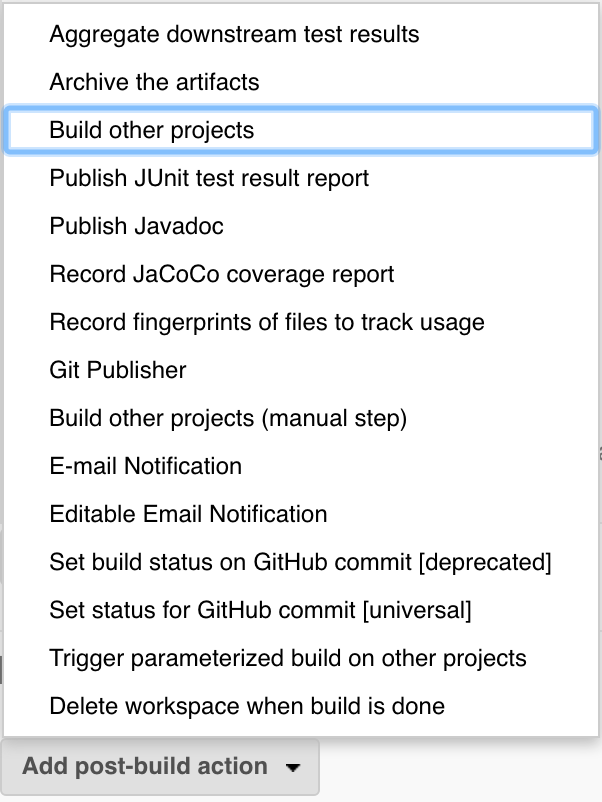
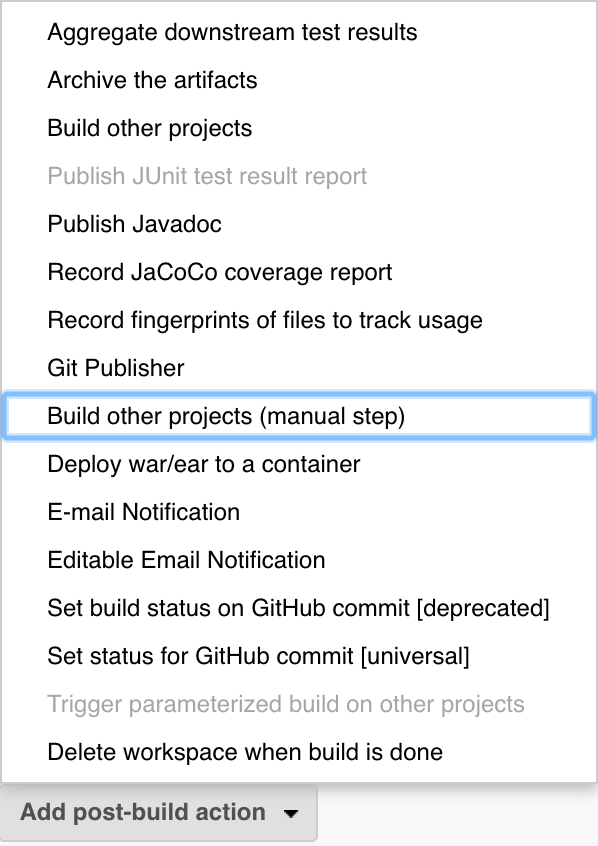
[B002] - update jenkins by step post

Changed region(s): [[0.0, 0.0, 1.0, 0.9975]]

diff --git a/source/_posts/2016-07-06-jenkins-by-step.md b/source/_posts/2016-07-06-jenkins-by-step.md
@@ -124,77 +124,75 @@ Jenkins Job是很重要的概念，定义了在什么样的情况下执行什么
 ![](/assets/jenkins-by-step/job_source_code.png)
 
 #### Build Triggers 构建触发器
-构建触发条件Jenkins提供了5种方式，根据项目需要可以设置不同的触发方式，通常采用`Poll SCM`方式，通过设置Schedule来控制触发条件，Schedule采用的是基于**Cron**语法，但Jenkins对其进行了略微调整，比如设置`H/5 * * * *`表示每5分钟检查一次代码仓库是否有新的code changes，如果有就pull并执行tasks。可以通过点击问号![](/assets/jenkins-by-step/help.png)按钮来获得更多帮助信息，或参考[Cron Wiki](https://en.wikipedia.org/wiki/Cron)和[Quartz 2.x Docs](http://www.quartz-scheduler.org/documentation/quartz-2.x/tutorials/crontrigger.html)。
+构建触发条件Jenkins提供了多种方式，根据项目需要可以设置不同的触发方式，通常采用`Poll SCM`方式，通过设置Schedule来控制触发条件，Schedule采用的是基于**Cron**语法，但Jenkins对其进行了略微调整，比如设置`H/5 * * * *`表示每5分钟检查一次代码仓库是否有新的code changes，如果有就pull并执行tasks。可以通过点击问号![](/assets/jenkins-by-step/help.png)按钮来获得更多帮助信息，或参考[Cron Wiki](https://en.wikipedia.org/wiki/Cron)和[CronTrigger Tutorial](http://www.quartz-scheduler.org/documentation/quartz-2.x/tutorials/crontrigger.html)。
 ![](/assets/jenkins-by-step/job_trigger.png)
 
 #### Build 构建和任务
-假设项目构建工具采用的是目前相对比较流行的开源自动化构建工具[Gradle](https://gradle.org/)，选择`Use Gradle Wrapper`，添加项目执行的Tasks即可。需要注意的是，如果build依赖特定版本的运行环境，请确保在build机器上安装了对应版本的运行环境，如Java 8等。
+假设项目构建工具采用的是目前相对比较流行的开源自动化构建工具[Gradle](https://gradle.org/)，选择`Use Gradle Wrapper`，添加项目执行的Tasks即可，图中示例最终将执行`gradlew clean build`操作。需要注意的是，如果build依赖特定版本的运行环境，请确保在build机器上安装了对应版本的运行环境，如Java 8等。
 ![](/assets/jenkins-by-step/job_build.png)
 
 当然，除了Gradle外还可以选择Maven、Ant等方式。当然，如果有一些复杂的自动化工作也可以选择Shell脚本完成，根据项目需要定义。
 ![](/assets/jenkins-by-step/add_build_step.png)
 
 #### Post-build Actions 构建后置行为
-Post-build Actions定义了在完成当前Job的所有Tasks后接下来需要执行的一系列操作的关系。比如设置在正常完成当前Job后，进一步获取测试报告和Artifacts，发送Email通知，或者并行/串行地触发后续的一个或多个Jobs。执行顺序的关系可以被配置在Pipeline View中以可视化的方式展现出来。
-![](/assets/jenkins-by-step/job_post_action.png)
-
-Post-build actions有很多种类型和触发条件，通过下拉列表可以选择，如下图：
+Post-build Actions定义了在完成当前Job的Build任务后接下来需要执行的一系列操作的关系。比如设置在正常完成Build后，进一步获取测试报告和Artifacts，发送Email通知，或并行/串行地触发后续Downstream的一个或多个Jobs，以及部署应用到服务器等。Post-build actions有很多种类型和触发条件，通过下拉列表可以选择，如下图：
 ![](/assets/jenkins-by-step/add_post_action.png)
 
-其中`Build other projects`表示将自动触发后续Job，`Build other projects(manual step)`表示定义了后续Job，但需要手动点击按钮触发，通常针对部署到High Environments的Job。另外还有一个`Trigger parameterized build on other projects`选项定义了同时触发后续的多个Jobs，比如在build完成后同时触发Integration Test、Acceptance Test以及Sonar等。
+其中`Build other projects`表示将自动触发后续Job，`Build other projects(manual step)`表示定义了后续Job，但需要手动点击按钮触发，通常针对部署到High Environments的Job。另外还有一个`Trigger parameterized build on other projects`选项定义了同时触发后续的多个Jobs，比如在build完成后同时触发Integration Test、Acceptance Test以及Sonar等。Jenkins也提供了Deployment相关的插件，总之，Jenkins的插件生态系统管理得很好，需要的功能都可以通过Plugins实现。
 
-至此，针对Job的设置完成，可以点击Save保存了。
+下图中定义`melon-build`完成后并行地执行`integration-test`、`acceptance-test`和`sonar`，执行顺序的关系可以被配置在Pipeline View中以可视化的方式展现出来，稍候会在Pipeline View中提及。
+![](/assets/jenkins-by-step/job_post_action.png)
 
-#### Report Code Coverage
+至此，针对第一个melon-build的Job设置完成，可以点击`Save`或`Apply`保存了。
 
-#### Checkstyle
+#### Custom Workspace 自定义工作区
+另外，如果当前Job要重用已经有的Workspace代码，可以选择Tab页`General`->`Advanced`->`Use custom workspace`，然后填写`Directory`，比如填写为`jobs/melon-build/workspace/`。
+![](/assets/jenkins-by-step/custom_workspace.png)
 
+#### Test Report 测试报告
+另外，针对测试报告，若基于Jacoco，可直接选择`Record JaCoCo coverage report`，当build完成后可自动生成报告。也可以尝试配置`Publish JUnit test result report`中的`Test report XMLs`。
+![](/assets/jenkins-by-step/jacoco_report.png)
 
-#### Deployment
+#### Deployment 部署
+部署有多种方式，可以通过`Build`中执行部署脚本，或者在`Post-build actions`中选择相应的Step，比如针对War包部署可以选择`Deploy war/ear to a container`。
+![](/assets/jenkins-by-step/deploy_tomcat.png)
 
+## Jenkins View
+Jenkins提供了多种视图，如Pipeline View、List View、My View等，目的是为了更好地归类和展示所关注的信息，通常会创建Pipeline View来增强Pipeline可视化效果。首先在Jenkins主页点击Dashboad标题栏最右边的`+`号，然后输入View Name并选择`Build Pipeline View`。
+![](/assets/jenkins-by-step/new_view.png)
 
-#### Node Slave  Tags
+然后配置Pipeline View，特别注意需要在Layout中选择Initial Job，并且该Job已经配置好Downstream Jobs，然后设定显示的Builds数量和刷新频率等。
+![](/assets/jenkins-by-step/config_pipeline_view.png)
 
+配置完成后保存，可以到刚创建的View中查看，可以根据项目需要定义Pipeline Flow。
+![](/assets/jenkins-by-step/pipeline_view.png)
 
-## Jenkins Pipeline
+## Manage Jenkins 管理
 
-#### 自定义View My View
+##### Jenkins Plugins 插件管理
+Jenkins的插件生态系统管理得很好，通常需要在Workspace中安装很多的插件来实现需要的功能。可以通过`Manage Jenkins`->`Manage Plugins`进入到插件管理页面，可以执行安装、升级、删除插件等操作。
+![](/assets/jenkins-by-step/plugins_manager.png)
 
-#### Pipeline View
+以下补充罗列一些常用的插件：
+- [Gradle plugin](https://wiki.jenkins-ci.org/display/JENKINS/Plugins)
+- [Git plugin](https://wiki.jenkins-ci.org/display/JENKINS/Plugins)
+- [Github plugin](https://wiki.jenkins-ci.org/display/JENKINS/Plugins)
+- [SSH plugin](https://wiki.jenkins-ci.org/display/JENKINS/Plugins)
+- [Pipeline plugin](https://wiki.jenkins-ci.org/display/JENKINS/Plugins)
+- [Deployment plugin](https://wiki.jenkins-ci.org/display/JENKINS/Plugins)
+- [JaCoCo plugin](https://wiki.jenkins-ci.org/display/JENKINS/Plugins)
+- [Authorize Project plugin](https://wiki.jenkins-ci.org/display/JENKINS/Authorize+Project+plugin)
+- [Checkstyle Plugin](https://wiki.jenkins-ci.org/display/JENKINS/Checkstyle+Plugin)
 
+#### Manage Nodes 管理节点
+I will talk about Master and Slave later.
 
-
-## Jenkins Plugins
-
-#### 常用的插件管理
-
-
-
-
-## Management
-
-#### System
-
-#### Users
-
-#### Email
-
-
-## Jenkins Master and Slave
-
+#### 其他配置管理
+Jenkins除了对插件和节点进行管理，还有系统管理、安全管理、权限配置、命令行工具、用户管理等。在主页选择`Manage Jenkins`进入到Jenkins管理页面，可以选择相应的功能进行配置，每项功能进入后都会有相关的说明，这里就不再一一列举了。
+![](/assets/jenkins-by-step/manage_jenkins.png)
 
 ## Pipeline as Code
-
-Jenkinsfile
-
-**但Jenkins也有其缺点，比如：**
-- 在配置Shell命令时，如果Pipeline规模扩大，构建和部署环境增多，那么就会复制粘贴很多这样的Shell命令，称为雪花式(Snowflakes)配置，增加维护成本；
-- 另外，Jenkins定义Job的顺序是以Job为关注点，从全局出发，比如定义A Job的前置Job是B，后置Job是C，当Jobs顺序情况变得复杂就很难再梳理清楚了；
-- Jenkins并未将Build Pipelines和Artifacts视作First-class Citizens，如果需要实现Continuous Delivery是需要借助插件完成，而Jenkins本身并不直接支持CD的；
-- 此外，虽然Jenkins的插件生态系统管理得很好，一旦Workspace中有很多的插件，可能会有造成一些插件问题导致Build环境被污染的风险。
-- 针对Jenkins 2.0的Jenkinsfile，可以将pipeline定义为代码形式，即Pipeline As Code，也方便了很多，算是优点，不过也是其缺点，最大的问题在于这可能造成在GUI上进行了修改而未修改Jenkinsfile的不一致性，而且无法追踪到这样的修改。
-
-
+Jenkins 2.x推出了`Jenkinsfile`来实现将pipeline定义为代码形式目标，即Pipeline as Code，特别是在集群管理时提升了效率，但会存在一个缺点，问题在于这可能造成在GUI上进行了修改而未修改Jenkinsfile的不一致性，而且无法追踪到这样的修改，所以，如果没有特别的需求，请谨慎选择使用。
 
 ----
 References
